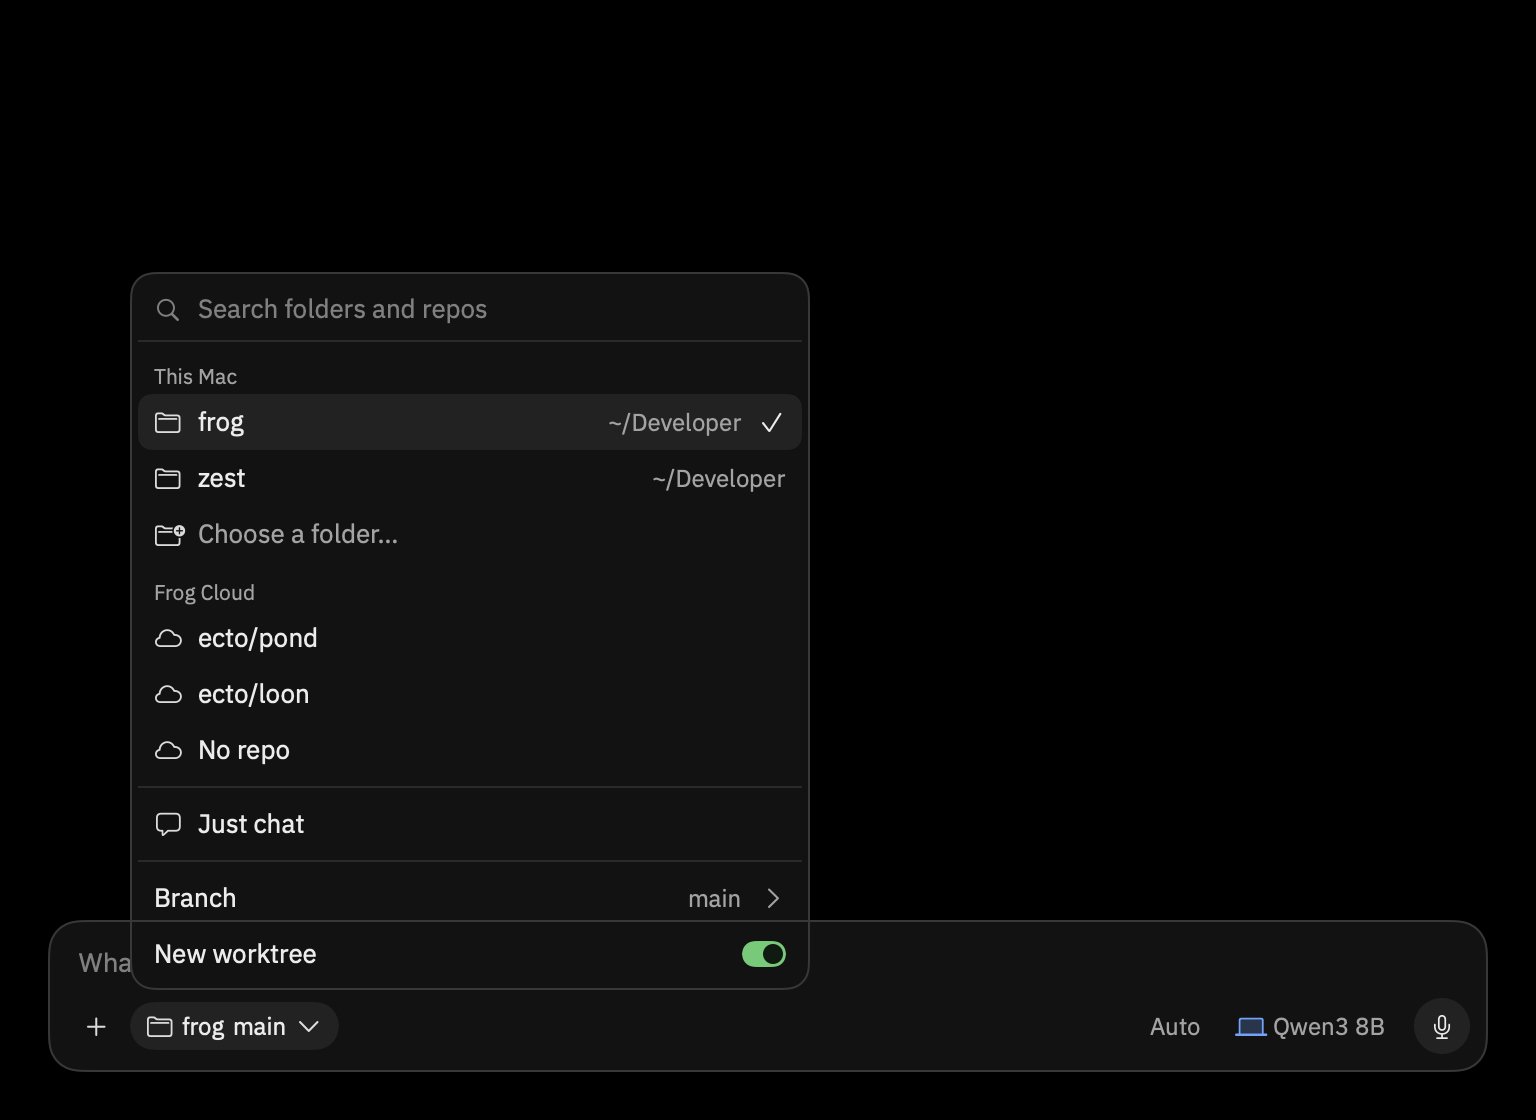
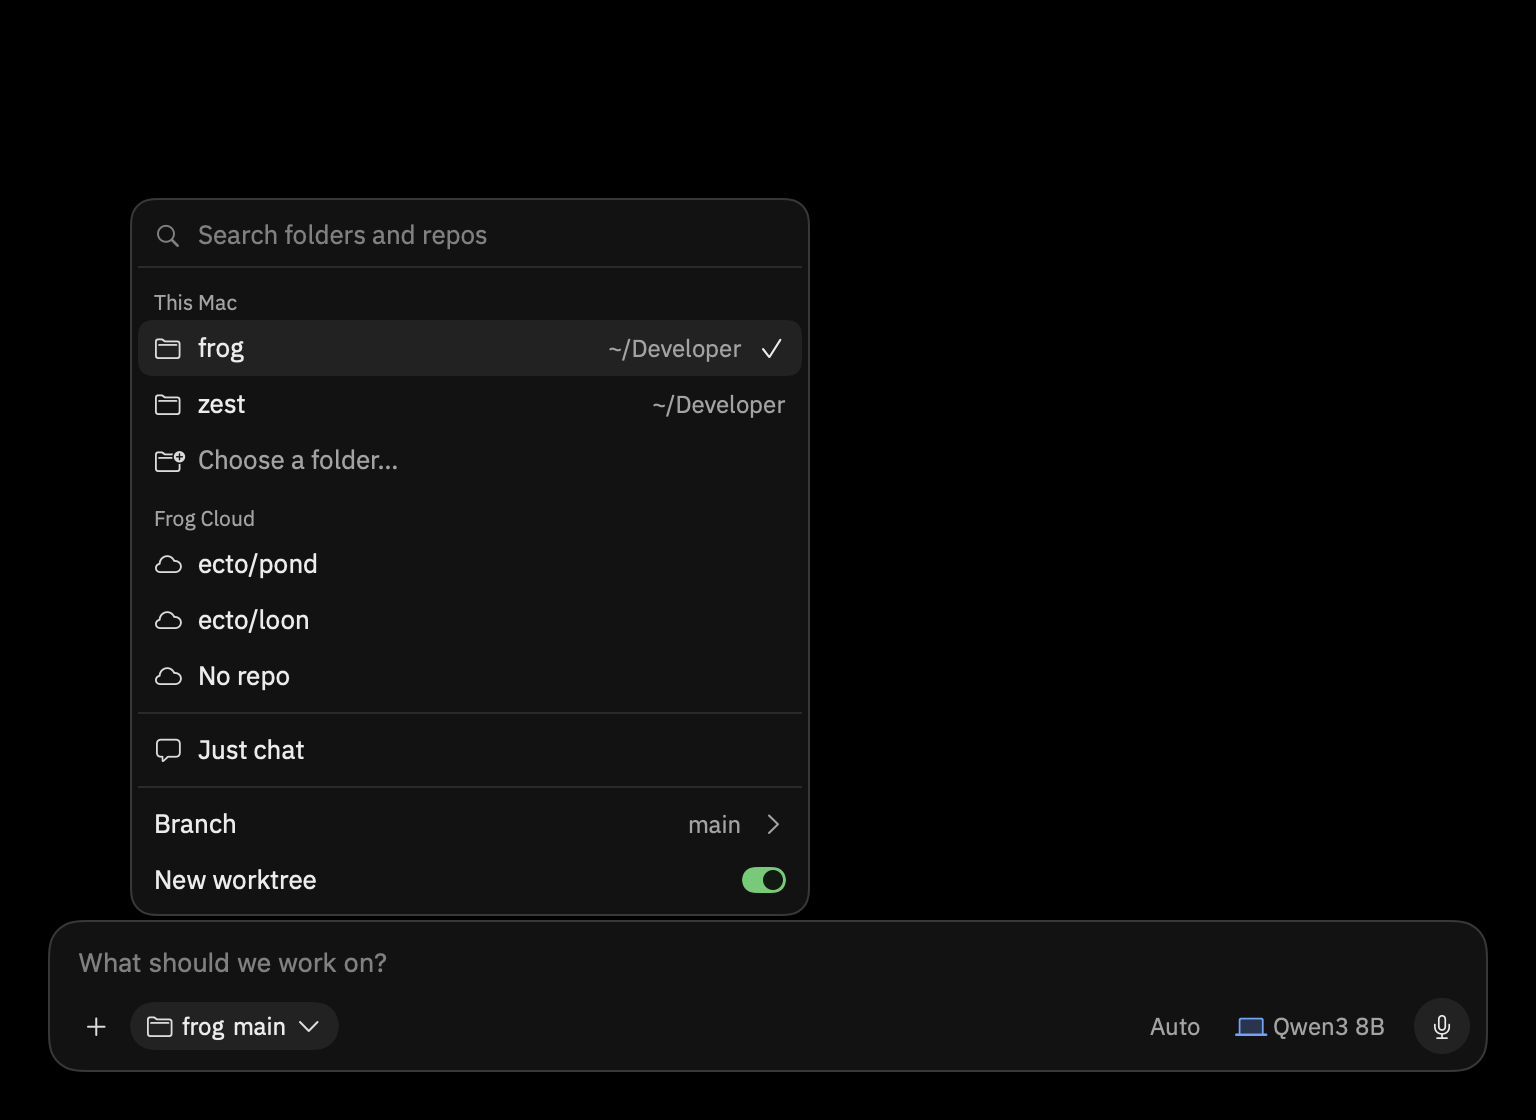
mac composer: menus open above the whole card, as the web's do
Every composer menu (where, mode, model, attach, the PR stack) used to hang from its chip,
so the where menu's last rows covered the field. Chips now ask for their menu through an
anchor preference, and the card's owner places it: its bottom 2 above the card's top edge
(the status line included), as the web's .cz-menu sits, and aligned to the chip's leading
or trailing edge. A menu taller than the room above the card is capped there and scrolls.

ComposerSnapshotTests.testMenusSitAboveTheCard failed on the old placement for all four
menus it opens (where, attach, mode, PR stack); testShortWindowMenuScrollsAboveTheCard
checks the same in a 240-tall window. The where-menu snapshots are redrawn.

diff --git a/apps/FrogKit/UI/Composer/Card.swift b/apps/FrogKit/UI/Composer/Card.swift
@@ -16,6 +16,8 @@ enum ComposerMetrics {
     static let maxWidth: CGFloat = 720
     /// Under this the model chip drops its name and the where chip truncates in the middle.
     static let narrow: CGFloat = 420
+    /// Between an open menu's bottom and the card's top edge, as the web's `.cz-menu` sits.
+    static let menuGap: CGFloat = 2
     static let plate = Color.primary.opacity(0.08)
 }
 
@@ -161,7 +163,8 @@ struct StatusDismiss: View {
 
 /// The card: fill, a 1px control stroke (muted when focused), radius 16. The status line on top
 /// when there is something to say, then what waits above the field (queued follow-ups and
-/// attachments), the field, and the controls.
+/// attachments), the field, and the controls. Its owner adds `composerMenuHost()` so the chips' menus
+/// open above it.
 struct ComposerCard<Status: View, Above: View, Field: View, Controls: View>: View {
     var showStatus = false
     var showAbove = false
@@ -429,19 +432,27 @@ struct ModeMenu: View {
 
 // MARK: - The menu shell
 
-/// A frog-drawn menu: the card's fill and stroke, radius 12, 4 inside. It opens upward from its
-/// chip (`composerMenu`).
+/// A frog-drawn menu: the card's fill and stroke, radius 12, 4 inside. It opens above the card,
+/// at its chip (`composerMenu`), and scrolls when the room above is shorter than it.
 struct ComposerMenuPanel<Content: View>: View {
     var width: CGFloat = 300
     @ViewBuilder let content: Content
 
     var body: some View {
+        ViewThatFits(in: .vertical) {
+            column
+            ScrollView { column }.scrollIndicators(.automatic)
+        }
+        .frame(width: width, alignment: .leading)
+        .background(Tokens.raised, in: .rect(cornerRadius: Tokens.Radius.card, style: .continuous))
+        .overlay(RoundedRectangle(cornerRadius: Tokens.Radius.card, style: .continuous).strokeBorder(Tokens.lineStrong, lineWidth: 1))
+    }
+
+    private var column: some View {
         VStack(alignment: .leading, spacing: 0) { content }
             .font(.frog(size: 13))
             .padding(4)
             .frame(width: width, alignment: .leading)
-            .background(Tokens.raised, in: .rect(cornerRadius: Tokens.Radius.card, style: .continuous))
-            .overlay(RoundedRectangle(cornerRadius: Tokens.Radius.card, style: .continuous).strokeBorder(Tokens.lineStrong, lineWidth: 1))
     }
 }
 
@@ -569,23 +580,54 @@ struct ComposerSwitch: View {
     }
 }
 
+/// An open menu, asked for by its chip and placed by the card around it.
+struct ComposerMenuRequest {
+    let anchor: Anchor<CGRect>
+    let trailing: Bool
+    let close: () -> Void
+    let panel: AnyView
+}
+
+struct ComposerMenuKey: PreferenceKey {
+    static var defaultValue: ComposerMenuRequest? { nil }
+    static func reduce(value: inout ComposerMenuRequest?, nextValue: () -> ComposerMenuRequest?) {
+        value = value ?? nextValue()
+    }
+}
+
 extension View {
-    /// Shows `panel` above this view while `open`, its leading or trailing edge on this view's,
-    /// 6 above it. A click outside or Esc calls `close`.
+    /// Asks the card around this chip to show `panel` while `open`: wholly above the card (its
+    /// status line included), its bottom `ComposerMetrics.menuGap` over the card's top edge, and
+    /// its leading or trailing edge on this chip's. A click outside or Esc calls `close`.
     func composerMenu<Panel: View>(_ open: Bool, trailing: Bool = false, close: @escaping () -> Void,
                                    @ViewBuilder panel: () -> Panel) -> some View {
-        overlay(alignment: trailing ? .topTrailing : .topLeading) {
-            if open {
-                panel()
-                    .fixedSize()
-                    #if os(macOS)
-                    .background(MenuDismissal(close: close))
-                    #endif
-                    .padding(.bottom, 6)
-                    // A zero-height frame at the anchor's top, the panel's bottom on it: it
-                    // grows upward whatever its size.
-                    .frame(height: 0, alignment: trailing ? .bottomTrailing : .bottomLeading)
-                    .transition(.opacity)
+        let view = open ? AnyView(panel()) : nil
+        return anchorPreference(key: ComposerMenuKey.self, value: .bounds) { anchor in
+            view.map { ComposerMenuRequest(anchor: anchor, trailing: trailing, close: close, panel: $0) }
+        }
+    }
+
+    /// Places the open menu a chip inside asked for (`composerMenu`) above this view, the card.
+    func composerMenuHost() -> some View {
+        overlayPreferenceValue(ComposerMenuKey.self, alignment: .topLeading) { request in
+            if let request {
+                GeometryReader { proxy in
+                    let chip = proxy[request.anchor]
+                    let gap = ComposerMetrics.menuGap
+                    // Never taller than the room above the card; a longer list scrolls.
+                    let room = max(proxy.frame(in: .global).minY - gap - 8, 120)
+                    request.panel
+                        #if os(macOS)
+                        .background(MenuDismissal(close: request.close))
+                        #endif
+                        .fixedSize(horizontal: true, vertical: false)
+                        .padding(request.trailing ? .trailing : .leading,
+                                 request.trailing ? max(proxy.size.width - chip.maxX, 0) : max(chip.minX, 0))
+                        .frame(width: proxy.size.width, height: room,
+                               alignment: request.trailing ? .bottomTrailing : .bottomLeading)
+                        .offset(y: -(room + gap))
+                        .transition(.opacity)
+                }
             }
         }
     }

diff --git a/apps/macos/FrogTests/ComposerSnapshotTests.swift b/apps/macos/FrogTests/ComposerSnapshotTests.swift
@@ -99,6 +99,83 @@ final class ComposerSnapshotTests: XCTestCase {
         })
     }
 
+    /// Draws `view` offscreen at `size` and returns its pixels (top row first).
+    private func pixels<V: View>(_ view: V, _ size: CGSize) throws -> NSBitmapImageRep {
+        let host = NSHostingView(rootView: view.frame(width: size.width, height: size.height).background(Tokens.canvas))
+        host.frame = CGRect(origin: .zero, size: size)
+        let window = NSWindow(contentRect: host.frame, styleMask: [.borderless], backing: .buffered, defer: false)
+        window.isReleasedWhenClosed = false
+        window.appearance = NSAppearance(named: .darkAqua)
+        window.contentView = host
+        defer { window.close() }
+        host.layoutSubtreeIfNeeded()
+        RunLoop.main.run(until: Date().addingTimeInterval(0.3))
+        host.layoutSubtreeIfNeeded()
+        let rep = try XCTUnwrap(host.bitmapImageRepForCachingDisplay(in: host.bounds))
+        host.cacheDisplay(in: host.bounds, to: rep)
+        return rep
+    }
+
+    /// Every composer menu sits wholly above the card, the status line included, with a small
+    /// gap: the card (everything above its controls row) and the gap draw the same with the menu
+    /// open as closed, and the menu does draw above it.
+    func testMenusSitAboveTheCard() throws {
+        try menusSitAbove(height: 560)
+    }
+
+    /// In a short window the menu is capped to the room above the card and scrolls; it still
+    /// never covers the field.
+    func testShortWindowMenuScrollsAboveTheCard() throws {
+        try menusSitAbove(height: 240)
+    }
+
+    private func menusSitAbove(height: CGFloat) throws {
+        let width: CGFloat = 720, pad: CGFloat = 24
+        let size = CGSize(width: width + pad * 2, height: height)
+        let git = state {
+            $0.where = session(prs: [.init(repo: "muni-works/frog", number: 412, title: "Flush sidebars", state: .checks, checks: .init(ok: 4, total: 9)),
+                                     .init(repo: "muni-works/frog", number: 413, title: "Ink", state: .checks, checks: .init(ok: 1, total: 1))])
+        }
+        var stacked = git
+        stacked.stackOpen = true
+        let cases: [(String, M.State, M.State, ComposerMenuID?)] = [
+            ("where", state(), state(), .place),
+            ("attach", state(), state(), .attach),
+            ("mode", state(), state(), .mode),
+            ("pr stack", git, stacked, nil),
+        ]
+        for (name, closedState, openState, menu) in cases {
+            func draw(_ s: M.State, _ m: ComposerMenuID?) throws -> NSBitmapImageRep {
+                try pixels(TrayPreview(state: s, lists: lists, menu: m).frame(width: width).padding(pad)
+                    .frame(width: size.width, height: size.height, alignment: .bottom), size)
+            }
+            let closed = try draw(closedState, nil), open = try draw(openState, menu)
+            let scale = CGFloat(closed.pixelsHigh) / size.height
+            let cardHeight = NSHostingView(rootView: TrayPreview(state: closedState).frame(width: width)).fittingSize.height
+            let cardTop = size.height - pad - cardHeight
+            // The controls row starts 1 + 12 + 16 + 4 below the field's top; the chip that opened
+            // the menu may light up there, so stop above it.
+            let controls = size.height - pad - (ComposerMetrics.action + 6 + 8 + 1)
+            func row(_ r: NSBitmapImageRep, _ y: Int) -> [UInt32] {
+                (Int(pad * scale)..<Int((pad + width) * scale)).map { x in
+                    let c = r.colorAt(x: x, y: y) ?? .clear
+                    return UInt32(c.redComponent * 255) << 16 | UInt32(c.greenComponent * 255) << 8 | UInt32(c.blueComponent * 255)
+                }
+            }
+            var covered: [Int] = []
+            for y in Int((cardTop - 2) * scale)..<Int(controls * scale) where row(closed, y) != row(open, y) {
+                covered.append(y)
+            }
+            XCTAssert(covered.isEmpty, "\(name): the open menu covers the card or its gap at \(covered.count) pixel rows, from y=\(covered.first.map { CGFloat($0) / scale } ?? 0) (card top \(cardTop))")
+            var drawnAbove = false
+            for y in 0..<Int((cardTop - 2) * scale) where row(closed, y) != row(open, y) {
+                drawnAbove = true
+                break
+            }
+            XCTAssert(drawnAbove, "\(name): the menu should draw above the card")
+        }
+    }
+
     /// The card's resting height: two rows (field and controls), and a third with a status line.
     /// The board's CSS sums to 76 and 108: 1 + (12 + 16 + 4) + (6 + 28 + 8) + 1, plus 32.
     func testRestingHeights() {

diff --git a/apps/macos/Frog/Views/ComposerView.swift b/apps/macos/Frog/Views/ComposerView.swift
@@ -206,6 +206,8 @@ struct ComposerView: View {
                 }
                 .contentShape(.rect)
                 .onTapGesture { controller.focus() }
+                // After the card's content shape, so a menu above the card still takes clicks.
+                .composerMenuHost()
                 .onGeometryChange(for: CGFloat.self) { $0.size.width } action: { width = $0 }
             }
             .padding(.horizontal, TurnSpace.gutter)

diff --git a/apps/FrogKit/UI/Composer/Tray.swift b/apps/FrogKit/UI/Composer/Tray.swift
@@ -217,6 +217,7 @@ struct TrayPreview: View {
                 ComposerAction(state: state, send: send).padding(.leading, 4)
             }
         }
+        .composerMenuHost()
     }
 
     /// The where chip shows only before a session starts.
